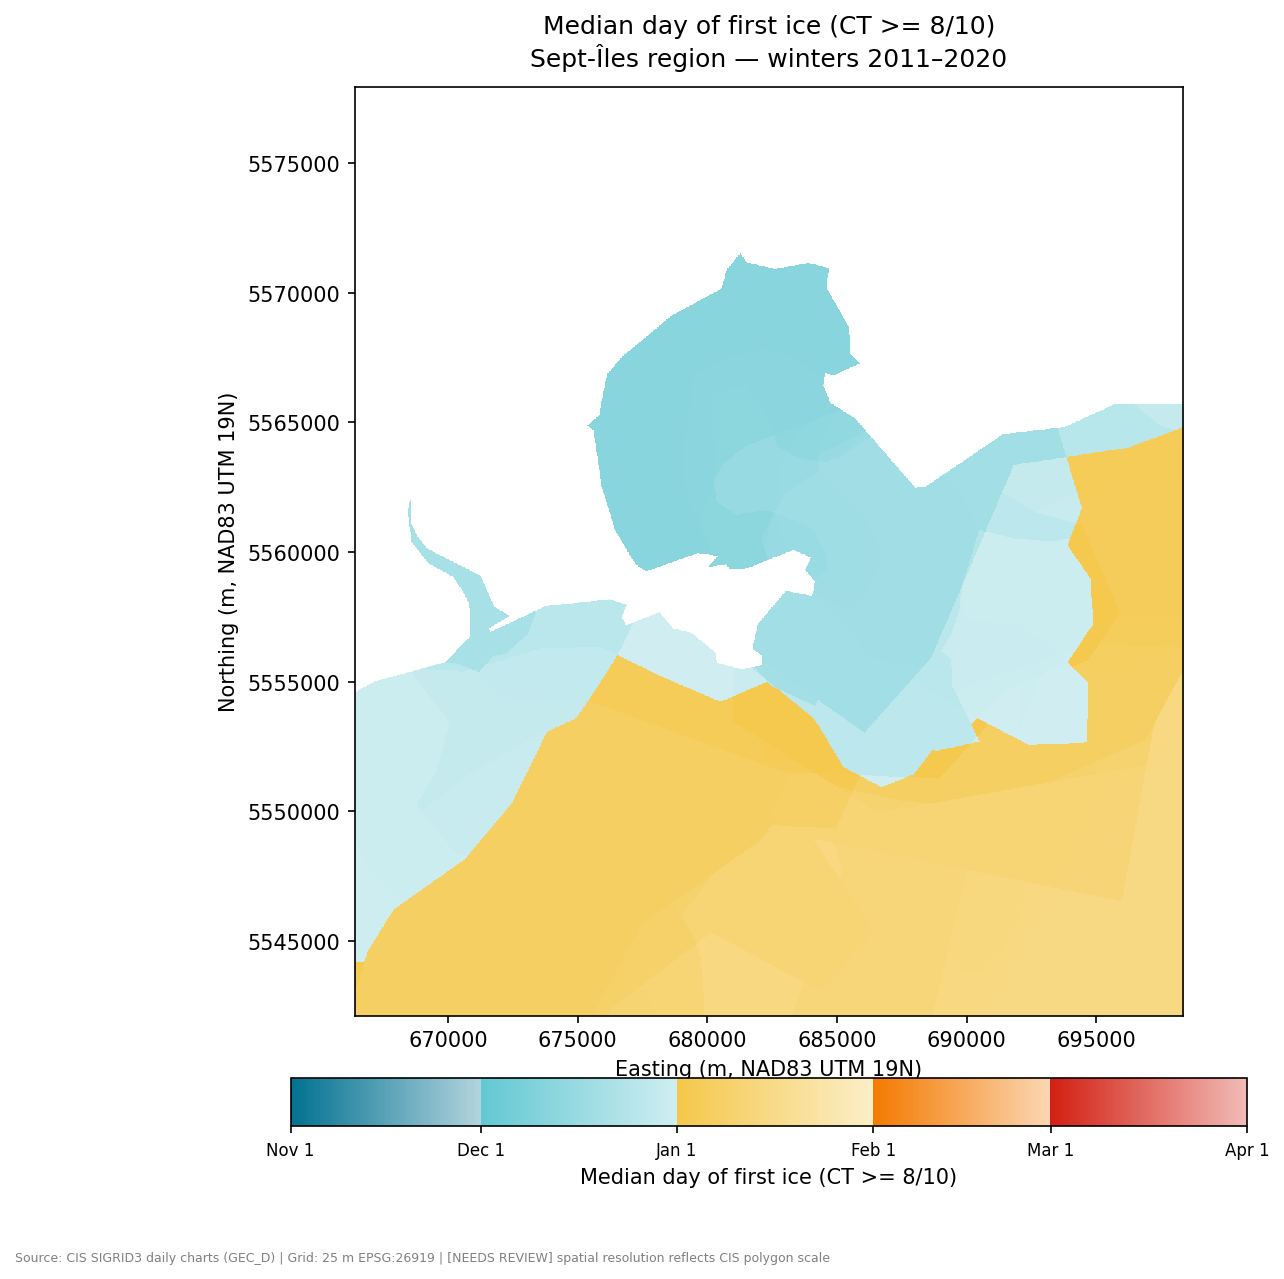
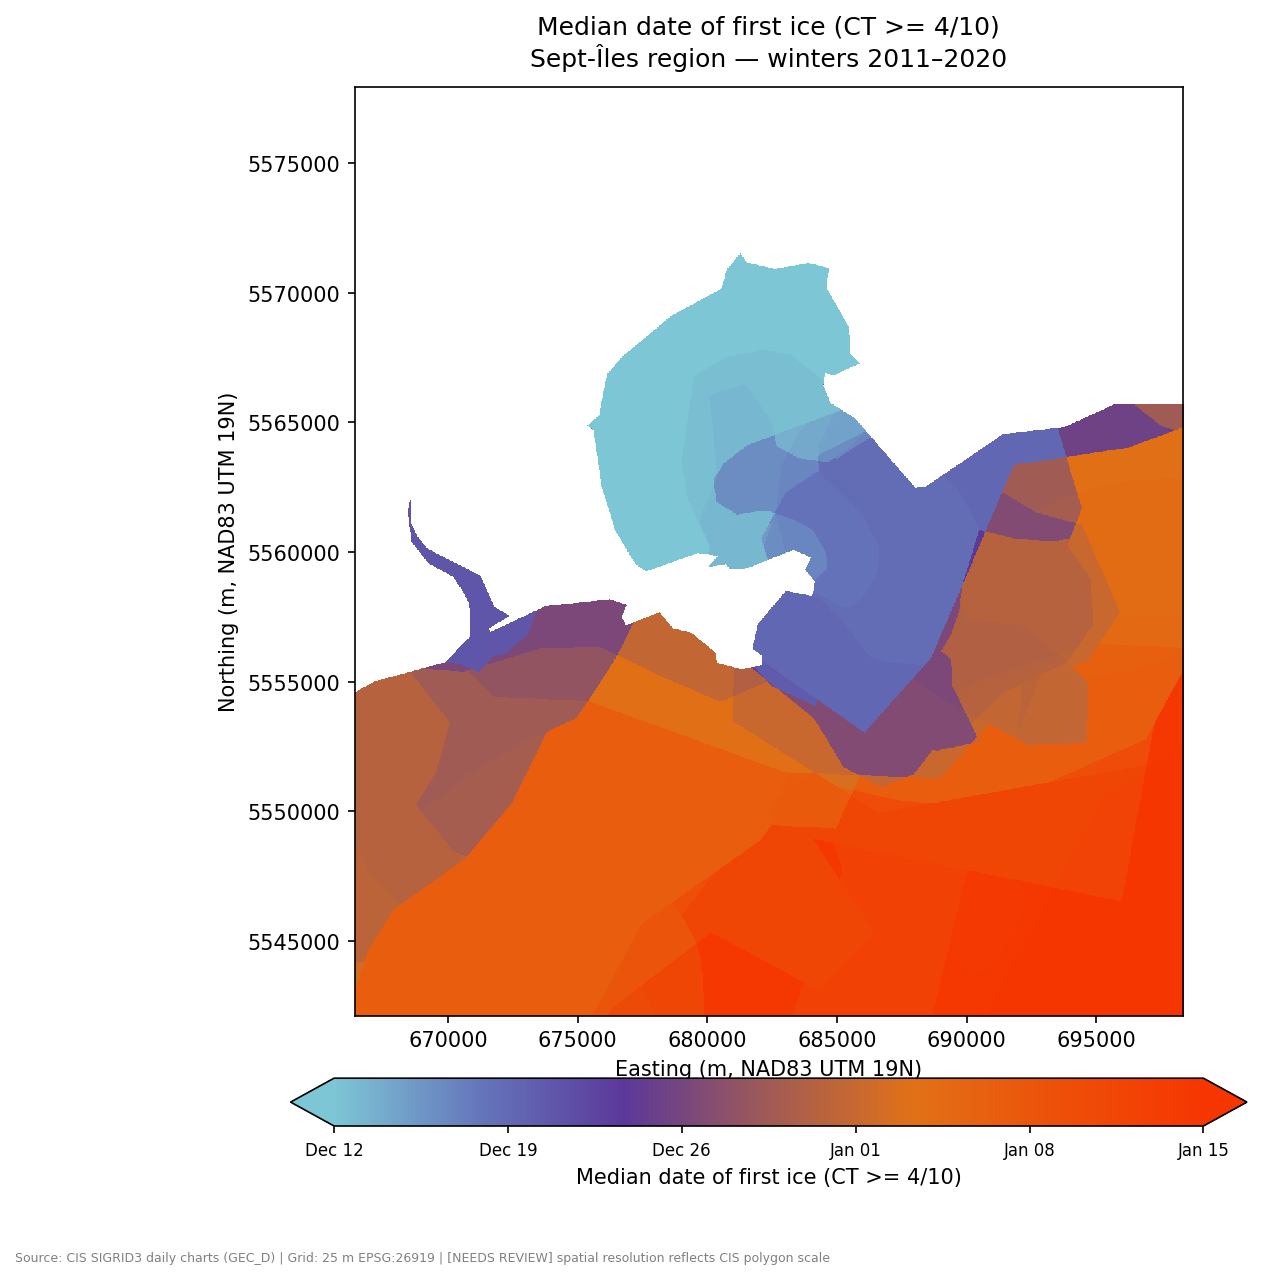
update of the colormap definition.

diff --git a/scripts/colormaps.py b/scripts/colormaps.py
@@ -1,0 +1,109 @@
+"""Color palette catalog and helpers for climatology maps.
+
+Palettes are defined as normalized ``[(position, color)]`` lists in [0, 1]
+space — a palette describes the *shape* of a color ramp, independent of any
+data range. ``build_cmap`` anchors a palette to a data range, optionally
+combined with ``percentile_range`` for outlier-robust clipping.
+
+This separation lets one palette serve many variables (freeze-up day,
+breakup day, season duration, event frequencies, wave statistics) by
+remapping ``vmin``/``vmax`` instead of duplicating colormaps.
+"""
+
+from __future__ import annotations
+
+import numpy as np
+import matplotlib.colors as mcolors
+from matplotlib.colors import Colormap, LinearSegmentedColormap, Normalize
+
+
+PALETTES: dict[str, list[tuple[float, str]]] = {
+    # 7-stop cool-to-warm sequential ramp (teal -> indigo -> plum -> ember -> red).
+    "cool_to_warm_7": [
+        (0.0,     "#7dc6d5"),
+        (1 / 6,   "#6576bb"),
+        (2 / 6,   "#5b389a"),
+        (3 / 6,   "#a05b55"),
+        (4 / 6,   "#e17117"),
+        (5 / 6,   "#ed5009"),
+        (1.0,     "#f63601"),
+    ],
+    # 5-stop coarser variant of the same family.
+    "cool_to_warm_5": [
+        (0.00, "#7ec8d5"),
+        (0.25, "#5e61b5"),
+        (0.50, "#7d4b78"),
+        (0.75, "#d47123"),
+        (1.00, "#ee5009"),
+    ],
+    # 5-stop palette tuned for wave-height style scales.
+    "waves_5": [
+        (0.00, "#7dc6d5"),
+        (0.25, "#5540ab"),
+        (0.50, "#b9663d"),
+        (0.75, "#ec5009"),
+        (1.00, "#f73700"),
+    ],
+}
+
+
+def percentile_range(
+    arr,
+    low: float = 0,
+    high: float = 99.0,
+) -> tuple[float, float]:
+    """Return ``(vmin, vmax)`` percentile bounds, ignoring NaN/inf.
+
+    Useful as a default scaling strategy for skewed or outlier-prone fields
+    (e.g. one stray cell with a freeze-up date two months past the bulk).
+    Values outside the returned range are surfaced via ``set_under`` /
+    ``set_over`` on the colormap rather than compressing the bulk of the
+    distribution.
+    """
+    finite = np.asarray(arr)
+    finite = finite[np.isfinite(finite)]
+    if finite.size == 0:
+        raise ValueError("percentile_range: no finite values in input")
+    lo, hi = np.percentile(finite, [low, high])
+    return float(lo), float(hi)
+
+
+def build_cmap(
+    palette: str | list[tuple[float, str]],
+    vmin: float,
+    vmax: float,
+    *,
+    under: str | None = None,
+    over: str | None = None,
+    bad: str = "none",
+    n: int = 1024,
+) -> tuple[Colormap, Normalize]:
+    """Build a ``(cmap, norm)`` pair anchored to ``[vmin, vmax]``.
+
+    Parameters
+    ----------
+    palette
+        Name of an entry in :data:`PALETTES`, or an explicit list of
+        ``(position, color)`` tuples with positions in [0, 1].
+    vmin, vmax
+        Data range the palette spans. Values outside are flagged via
+        ``under`` / ``over`` colors (defaulting to the palette endpoints).
+    under, over
+        Override colors for out-of-range values.
+    bad
+        Color for NaN / masked cells. Defaults to fully transparent.
+    n
+        Colormap LUT resolution.
+    """
+    stops = PALETTES[palette] if isinstance(palette, str) else palette
+    positions = [p for p, _ in stops]
+    colors = [mcolors.to_rgba(c) for _, c in stops]
+
+    cmap = LinearSegmentedColormap.from_list(
+        "custom", list(zip(positions, colors)), N=n,
+    )
+    cmap.set_under(mcolors.to_rgba(under) if under else colors[0])
+    cmap.set_over(mcolors.to_rgba(over) if over else colors[-1])
+    cmap.set_bad(bad)
+
+    return cmap, Normalize(vmin=vmin, vmax=vmax, clip=False)

diff --git a/scripts/raster_to_vector.py b/scripts/raster_to_vector.py
@@ -1,0 +1,103 @@
+"""Raster -> vector helpers for climatology products.
+
+Workflow: float raster (with NaN nodata) -> NaN-aware smoothing -> floor
+to integer levels -> one polygon per unique level, written as shapefile.
+Per-polygon attributes are aggregated from a companion raster (e.g. the
+per-cell count of contributing seasons).
+"""
+
+from __future__ import annotations
+
+from pathlib import Path
+
+import numpy as np
+import geopandas as gpd
+from rasterio.features import shapes as rio_shapes
+from scipy.ndimage import gaussian_filter
+from shapely.geometry import shape
+
+
+def _nan_aware_gaussian(arr: np.ndarray, sigma: float) -> np.ndarray:
+    """Gaussian smoothing that ignores NaN cells.
+
+    Smooths the array against a smoothed validity mask, then re-applies
+    NaN at originally-invalid positions so smoothing never extends
+    coverage past the valid domain.
+    """
+    valid = np.isfinite(arr)
+    filled = np.where(valid, arr, 0.0)
+    blurred = gaussian_filter(filled, sigma=sigma)
+    weight = gaussian_filter(valid.astype(np.float32), sigma=sigma)
+    with np.errstate(invalid="ignore", divide="ignore"):
+        out = blurred / weight
+    out[~valid] = np.nan
+    return out
+
+
+def bands_to_shapefile(
+    values: np.ndarray,
+    n_seasons: np.ndarray,
+    transform,
+    crs,
+    out_path: Path,
+    *,
+    smooth_sigma: float | None = 1.5,
+    value_field: str = "level_day",
+) -> gpd.GeoDataFrame:
+    """Vectorize ``values`` into one polygon per unique integer level.
+
+    Parameters
+    ----------
+    values
+        2-D float raster (NaN = nodata). Smoothed then floored to int.
+    n_seasons
+        2-D float raster, same shape as ``values``. Per-cell count of
+        seasons contributing to the value at that pixel. Aggregated into
+        ``n_seas_avg`` (per-level mean over the cells of that level) and
+        ``n_cells`` (count of cells at that level).
+    transform
+        Affine transform mapping pixel -> world coordinates.
+    crs
+        Target CRS (EPSG code, pyproj CRS, or WKT).
+    out_path
+        Destination shapefile path.
+    smooth_sigma
+        Sigma (in pixels) of the NaN-aware Gaussian pre-filter. ``None``
+        disables smoothing.
+    value_field
+        Attribute name carrying the integer level. Kept <= 10 chars to
+        fit the shapefile field-name limit.
+    """
+    smoothed = _nan_aware_gaussian(values, smooth_sigma) if smooth_sigma else values
+
+    valid = np.isfinite(smoothed)
+    int_days = np.full(smoothed.shape, np.iinfo(np.int16).min, dtype=np.int16)
+    int_days[valid] = np.floor(smoothed[valid]).astype(np.int16)
+
+    # Per-level aggregates over the original (un-smoothed) n_seasons raster.
+    flat_days = int_days[valid]
+    flat_seas = n_seasons[valid]
+    unique_days, inverse = np.unique(flat_days, return_inverse=True)
+    n_cells_per = np.bincount(inverse)
+    n_seas_sum = np.bincount(inverse, weights=flat_seas)
+    n_seas_avg = n_seas_sum / n_cells_per
+    lookup = {
+        int(d): (float(m), int(c))
+        for d, m, c in zip(unique_days, n_seas_avg, n_cells_per)
+    }
+
+    geoms: list = []
+    levels: list[int] = []
+    for geom, val in rio_shapes(int_days, mask=valid, transform=transform):
+        geoms.append(shape(geom))
+        levels.append(int(val))
+
+    gdf = gpd.GeoDataFrame({value_field: levels, "geometry": geoms}, crs=crs)
+    gdf = gdf.dissolve(by=value_field, as_index=False)
+    gdf["n_seas_avg"] = gdf[value_field].map(lambda d: lookup[d][0])
+    gdf["n_cells"] = gdf[value_field].map(lambda d: lookup[d][1])
+
+    out_path = Path(out_path)
+    out_path.parent.mkdir(parents=True, exist_ok=True)
+    gdf.to_file(out_path, driver="ESRI Shapefile")
+    return gdf

diff --git a/scripts/first_ice_climatology.py b/scripts/first_ice_climatology.py
@@ -17,16 +17,20 @@ import sys
 import logging
 from pathlib import Path
 
+from datetime import date, timedelta
+
 import numpy as np
 import geopandas as gpd
 import pandas as pd
 import matplotlib.pyplot as plt
-import matplotlib.colors as mcolors
 from dotenv import load_dotenv
 from rasterio.features import rasterize as rio_rasterize
 from rasterio.transform import from_bounds
 from shapely import wkt
 from sqlalchemy import create_engine, text
+
+from colormaps import build_cmap, percentile_range
+from raster_to_vector import bands_to_shapefile
 
 load_dotenv(Path(__file__).parent.parent / ".env")
 
@@ -45,6 +49,8 @@ CT_MIN     = 40             # SIGRID3 code for > 4/10 concentration
 SEASON_MIN = "2010-09-01"   # first season_start — winter 2011
 SEASON_MAX = "2019-09-01"   # last season_start  — winter 2020
 OUTPUT     = Path(__file__).parent.parent / "output" / "first_ice_sept-iles.png"
+OUTPUT_SHP = Path(__file__).parent.parent / "output" / "first_ice_sept-iles_isochrones.shp"
+SMOOTH_SIGMA = 1.5          # px — NaN-aware Gaussian sigma before vectorizing
 
 
 # ─────────────────────────────────────────────────────────────────────────────
@@ -165,6 +171,34 @@ def run():
     log.info("Cells with at least 1 season of ice: %s / %s",
              f"{int(np.sum(~np.isnan(median_days))):,}", f"{width * height:,}")
 
+    # --- Log of the distribution of the median days of freeze up
+    finite = median_days[np.isfinite(median_days)]
+    if finite.size:
+        pcts = np.percentile(finite, [1, 5, 25, 50, 75, 95, 99])
+        log.info("median_days distribution (days from Sep 1):")
+        log.info("  min=%.0f  max=%.0f  mean=%.1f  std=%.1f",
+                finite.min(), finite.max(), finite.mean(), finite.std())
+        log.info("  p01=%.0f p05=%.0f p25=%.0f p50=%.0f p75=%.0f p95=%.0f p99=%.0f",
+                *pcts)
+        # Per-month occupancy (Nov..Apr buckets)
+        edges = [0, 61, 91, 122, 153, 181, 212, 365]
+        labels = ["<Nov", "Nov", "Dec", "Jan", "Feb", "Mar", ">=Apr"]
+        counts, _ = np.histogram(finite, bins=edges)
+        for lab, c in zip(labels, counts):
+            log.info("  %-6s : %6d cells (%.1f%%)", lab, c, 100*c/finite.size)
+
+    # --- Vector product: isochrone polygons -------------------------------
+    log.info("Vectorizing isochrones to %s ...", OUTPUT_SHP)
+    gdf = bands_to_shapefile(
+        median_days,
+        n_seasons_per_cell,
+        transform=transform,
+        crs=f"EPSG:{GRID_CRS}",
+        out_path=OUTPUT_SHP,
+        smooth_sigma=SMOOTH_SIGMA,
+    )
+    log.info("Wrote %d isochrone polygons (one per integer day-of-season).", len(gdf))
+
     # --- Plot -------------------------------------------------------------
     _plot(median_days, n_seasons_per_cell, xmin, ymin, xmax, ymax)
 
@@ -173,61 +207,19 @@ def run():
 # Visualization
 # ─────────────────────────────────────────────────────────────────────────────
 
-def _make_monthly_cmap():
-    """
-    Five-month sequential colormap (Nov → Mar), one colour per month.
+SEASON_ORIGIN = date(2000, 9, 1)  # any Sep-1; used only to format day-of-season as a calendar label
 
-    Within each month the alpha fades linearly from 1.0 (month start) to
-    0.3 (month end), creating visible band boundaries without hard edges.
 
-    Palette:
-        #007191  deep teal    — Nov
-        #62c8d3  light cyan   — Dec
-        #f5c84a  golden amber — Jan  [bridge: CIELAB midpoint between the
-                                       cyan and orange groups; L=62 for
-                                       accessibility; safe for deuteranopia]
-        #f47a00  orange       — Feb
-        #d31f11  deep red     — Mar
-
-    Returns (cmap, vmin, vmax, bounds) where bounds are the day-of-season
-    values [61, 91, 122, 153, 181, 212] at each month boundary (from Sep 1):
-        Sep(30) + Oct(31) = 61  → Nov 1
-        + Nov(30)          = 91  → Dec 1
-        + Dec(31)          = 122 → Jan 1
-        + Jan(31)          = 153 → Feb 1
-        + Feb(28)          = 181 → Mar 1
-        + Mar(31)          = 212 → Apr 1
-    """
-    COLORS = ["#007191", "#62c8d3", "#f5c84a", "#f47a00", "#d31f11"]
-    BOUNDS = [61, 91, 122, 153, 181, 212]
-    VMIN, VMAX = BOUNDS[0], BOUNDS[-1]
-    total = VMAX - VMIN  # 151 days
-
-    EPS = 1e-6
-    stops = []
-    for i, col in enumerate(COLORS):
-        p0 = (BOUNDS[i]     - VMIN) / total
-        p1 = (BOUNDS[i + 1] - VMIN) / total
-        r, g, b = mcolors.to_rgb(col)
-        if i == 0:
-            stops.append((p0, (r, g, b, 1.0)))        # Nov 1: full opacity
-        stops.append((p1 - EPS, (r, g, b, 0.3)))      # end of month: 30 %
-        if i < len(COLORS) - 1:
-            r2, g2, b2 = mcolors.to_rgb(COLORS[i + 1])
-            stops.append((p1, (r2, g2, b2, 1.0)))     # next month: full opacity
-    stops.append((1.0, (*mcolors.to_rgb(COLORS[-1]), 0.3)))  # Mar 31
-
-    cmap = mcolors.LinearSegmentedColormap.from_list("monthly_ice", stops, N=1024)
-    cmap.set_under(mcolors.to_rgba(COLORS[0], 1.0))   # pre-Nov ice → full teal
-    cmap.set_bad("none")                               # NaN → transparent
-    return cmap, VMIN, VMAX, BOUNDS
+def _day_label(d: float) -> str:
+    return (SEASON_ORIGIN + timedelta(days=int(round(d)))).strftime("%b %d")
 
 
 def _plot(median_days, n_seasons, xmin, ymin, xmax, ymax):
-    cmap, vmin, vmax, bounds = _make_monthly_cmap()
+    vmin, vmax = percentile_range(median_days, low=2, high=98)
+    cmap, norm = build_cmap("cool_to_warm_7", vmin=vmin, vmax=vmax)
 
-    tick_days   = bounds
-    tick_labels = ["Nov 1", "Dec 1", "Jan 1", "Feb 1", "Mar 1", "Apr 1"]
+    tick_days = np.linspace(vmin, vmax, 6)
+    tick_labels = [_day_label(d) for d in tick_days]
 
     fig, ax = plt.subplots(figsize=(10, 9))
     ax.set_facecolor("white")
@@ -237,19 +229,18 @@ def _plot(median_days, n_seasons, xmin, ymin, xmax, ymax):
         origin="upper",
         extent=[xmin, xmax, ymin, ymax],
         cmap=cmap,
-        vmin=vmin,
-        vmax=vmax,
+        norm=norm,
         interpolation="none",
     )
 
     cbar = fig.colorbar(im, ax=ax, orientation="horizontal",
-                        fraction=0.046, pad=0.06,
-                        label="Median day of first ice (CT >= 8/10)")
+                        fraction=0.046, pad=0.06, extend="both",
+                        label="Median date of first ice (CT >= 4/10)")
     cbar.set_ticks(tick_days)
     cbar.set_ticklabels(tick_labels, fontsize=8)
 
     ax.set_title(
-        "Median day of first ice (CT >= 8/10)\nSept-Îles region — winters 2011–2020",
+        "Median date of first ice (CT >= 4/10)\nSept-Îles region — winters 2011–2020",
         fontsize=12, pad=10,
     )
     ax.set_xlabel("Easting (m, NAD83 UTM 19N)")